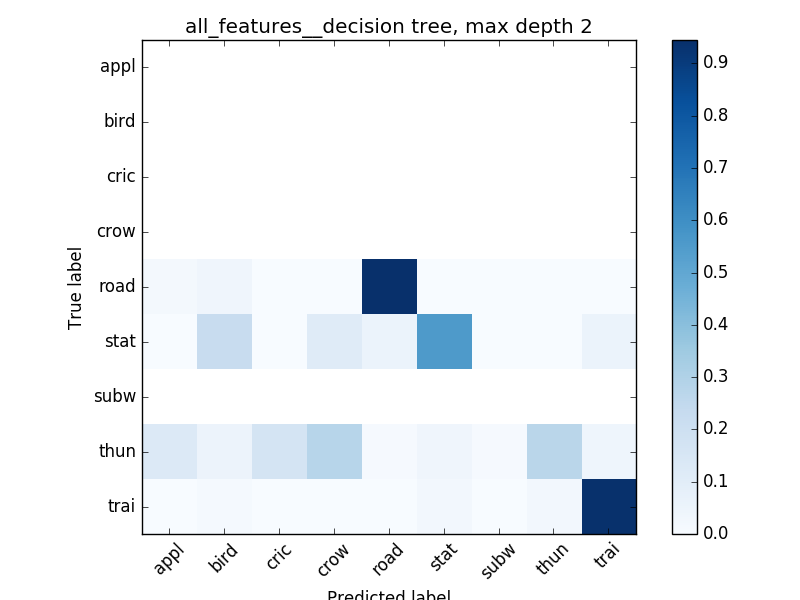
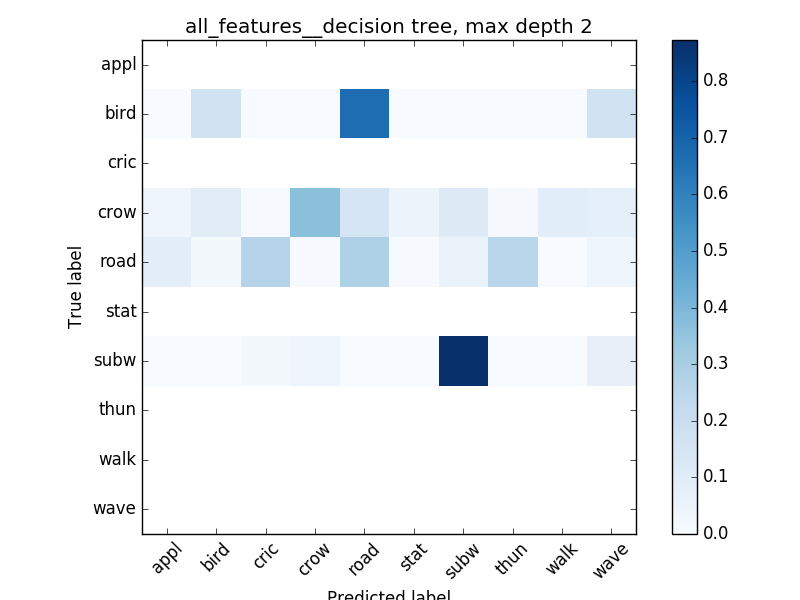
better training split, ensembling

diff --git a/python/run_synthesis.py b/python/run_synthesis.py
@@ -592,9 +592,7 @@ def get_features(filenames, limit, winlen, downsample=1):
 		wins.extend(ws)
 		labels.extend(ls)
 
-
-	headers, wins, labels = zip(*results)
-	return headers[0], np.array(sum(wins, [])), np.array(sum(labels, [])), meta
+	return header, np.array(wins), np.array(labels), np.array(meta)
 
 	
 	# for filename in filenames:
@@ -607,28 +605,41 @@ def get_features(filenames, limit, winlen, downsample=1):
 	# return header, np.array(wins), np.array(labels)	
 
 @cache_to_disk
-def train_test(mod, X, y, model_name, meta):
+def train_mask(y, meta):
 	lab_fn = {}
 	for label, filename in zip(y, meta):
-		lab_fn[label] = lab_fn.get(label, []) + [fname]
+		lab_fn[label] = lab_fn.get(label, set()) | {fname}
 
 	test_fs = {}
 	for label, fnames in lab_fn.iteritems():
 		if len(fnames) > 1:
-			test_fs[label] = fnames[np.random.random_integer(len(fnames)) - 1]
+			test_fs[label] = list(fnames)[np.random.random_integer(len(fnames)) - 1]
 
-	train_ = np.zeros(X.shape[0]).astype(bool)
-	for i in xrange(X.shape[0]):
+	train = np.zeros(y.shape[0]).astype(bool)
+	val = np.zeros(y.shape[0]).astype(bool)
+	test = np.zeros(y.shape[0]).astype(bool) 
+	for i in xrange(y.shape[0]):
 		label = labels[i]
 		source = meta[i]
 		fnames = lab_fn[label]
 		if len(fnames) > 1:
-			train_[i] = source != test_fs[label]
+			train[i] = source != test_fs[label]
 		else:
-			train_[i] = np.random.rand() < .8
-	test = ~train
-	mod.fit(X[train], y[train])
-	return mod, train
+			train[i] = np.random.rand() < .8
+		test[i] = not train[i]
+		if train[i]:
+			v = np.random.rand() < .15
+			val[i] = v
+			train[i] = not v
+
+
+
+	return train, val, test, test_fs
+
+@cache_to_disk
+def run_model(mod, X, y, name):
+	mod.fit(X, y)
+	return mod
 	
 def print_mod_results(mod, X, y, train):
 
@@ -732,17 +743,22 @@ if __name__ == "__main__":
 	filenames = tuple([fname for fname in os.listdir('../wavefiles') if fname[-3:] == 'wav'])
 	print filenames
 	# map(lambda x: open_wavefile('../wavefiles/' + x), filenames)
+	# ipdb.set_trace()
 
 	winlen = 7;
 
 	# ipdb.set_trace()
 
 	header, wins, labels, meta = get_features(filenames, 2000, winlen, downsample=7,
-		redo = True
+		# redo = True
 	)
-
 	nwins = wins.shape[0]
-	wins = wins[np.isfinite(wins).all(1)]
+	fin_mask = np.isfinite(wins).all(1)
+	wins = wins[fin_mask]
+	labels = labels[fin_mask]
+	meta = meta[fin_mask]
+	n_labels = len(np.unique(labels))
+	
 	print 'eliminated %s rows due to nan' % (nwins - wins.shape[0])
 	# ipdb.set_trace()
 
@@ -762,8 +778,9 @@ if __name__ == "__main__":
 		('decision tree, no max depth', sklearn.tree.DecisionTreeClassifier()),
 		('logistic regression, 0.7 regularization', sklearn.linear_model.LogisticRegression(C=.7)),
 		('logistic regression, 1.0 regularization', sklearn.linear_model.LogisticRegression()),
-		('SVM, rbf kernel, .5 regularization', sklearn.svm.SVC(kernel='rbf', C=.5)),
-		('SVM, rbf kernel, 1.0 regularization', sklearn.svm.SVC(kernel='rbf')),
+		('SVM, rbf kernel, .5 regularization', sklearn.svm.SVC(kernel='rbf', C=.5, probability=True)),
+		('SVM, rbf kernel, 1.0 regularization', sklearn.svm.SVC(kernel='rbf', probability=True)),
+		('GradientBoostingClassifier', sklearn.ensemble.GradientBoostingClassifier(n_estimators=100, learning_rate=1.0, max_depth=2)),
 
 	]
 
@@ -776,6 +793,11 @@ if __name__ == "__main__":
 
 	mods_trained = {}
 	# print header
+	train_mask, val_mask, test_mask, test_fs = train_mask(labels, meta,
+		# redo=True
+	)
+	prob_pred = np.zeros((wins.shape[0], len(mods) * n_labels))
+	print 'test_fs: ', test_fs
 	res_train = pd.DataFrame(np.zeros((len(mods), len(subsets))), index=zip(*mods)[0], columns=zip(*subsets)[0])
 	res_test = pd.DataFrame(np.zeros((len(mods), len(subsets))), index=zip(*mods)[0], columns=zip(*subsets)[0])
 	for j, (fname, feat) in enumerate(subsets):
@@ -785,10 +807,11 @@ if __name__ == "__main__":
 
 		for i, (mod_name, mod) in enumerate(mods):
 			print mod
-			mod, train_mask = train_test(mod, wins_, labels, mod_name+fname, meta
-				redo=True
+			# ipdb.set_trace()
+			mod = run_model(mod, wins_[train_mask], labels[train_mask], mod_name+fname,
+				# redo=True
 			)
-			
+			prob_pred[:, i*n_labels:(i+1)*n_labels] = mod.predict_proba(wins_)
 			e_train, e_test = print_mod_results(mod, wins_, labels, train_mask)
 			mods_trained[mod_name] = mod
 			res_train.loc[mod_name, fname] = e_train
@@ -797,9 +820,26 @@ if __name__ == "__main__":
 
 			title = '%s__%s' % (fname, mod_name)
 			plot_confusion_matrix(
-			mod.predict(wins_[~train_mask]), labels[~train_mask], 
+			mod.predict(wins_[test_mask]), labels[test_mask], 
 				title=title)
 			plt.savefig('figures/confusions/' + title + '.png')
+
+		print 'ENSEMBLE'
+		mod_name = 'ENSEMBLE'
+		mod = sklearn.ensemble.GradientBoostingClassifier(n_estimators=100, learning_rate=1.0, max_depth=2)
+		mod = run_model(mod, prob_pred[val_mask], labels[val_mask], fname+'ENSEMBLE')
+		val_or_test = np.logical_or(val_mask, test_mask)
+		e_train, e_test = print_mod_results(mod, prob_pred, labels, val_or_test)
+		mods_trained[mod_name] = mod
+		res_train.loc[mod_name, fname] = e_train
+		res_test.loc[mod_name, fname] = e_test
+		print '\n\n'
+		title = '%s__%s' % (fname, mod_name)
+		plot_confusion_matrix(
+		mod.predict(wins_[test_mask]), labels[test_mask], 
+			title=title)
+		plt.savefig('figures/confusions/' + title + '.png')
+
 
 	
 	res_train.loc['avg'] = res_train.mean(0)		
